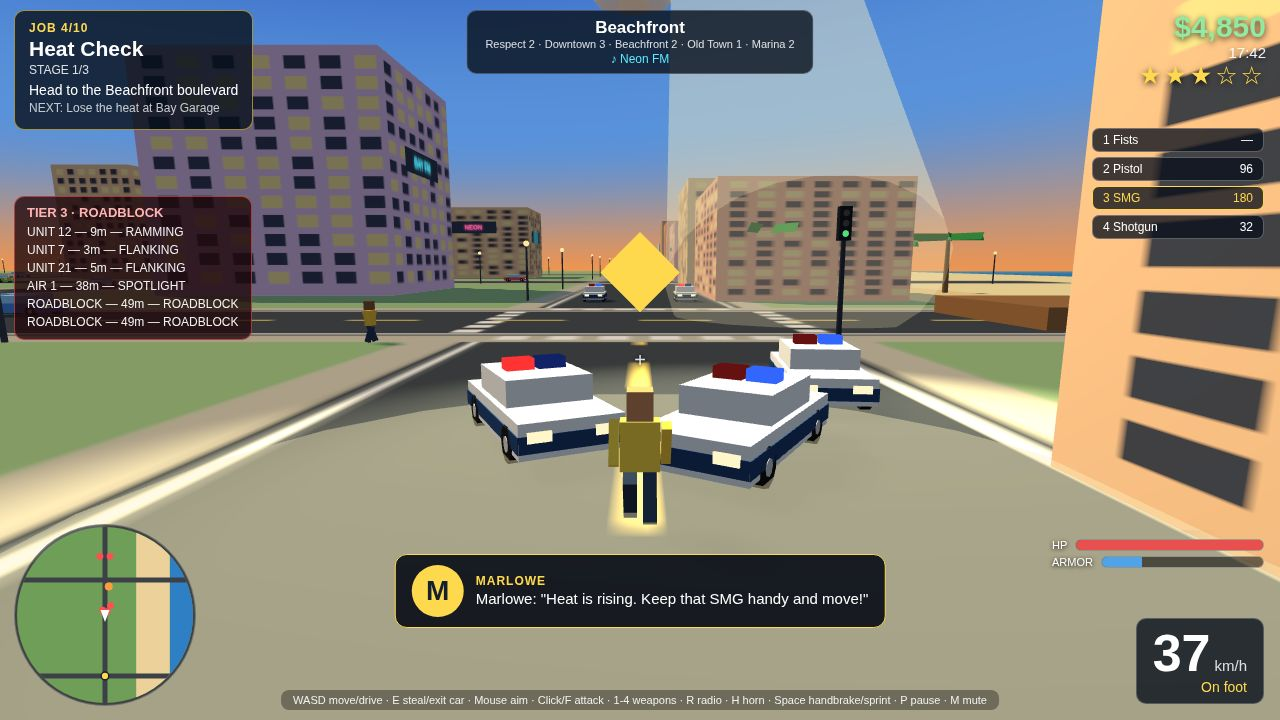
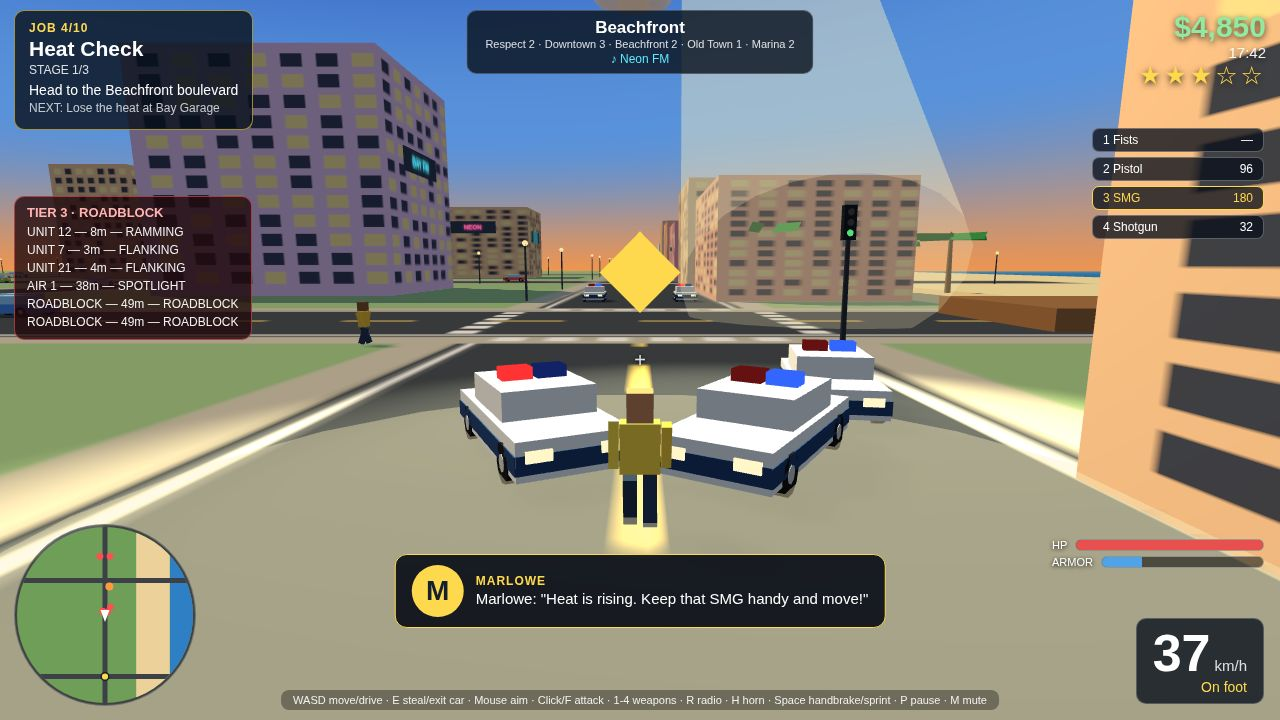
Neon Bay Nights polish re-do: re-authored staging + README, re-took screenshots under fresh recording

diff --git a/game/src/main.js b/game/src/main.js
@@ -410,62 +410,63 @@ function frame() {
 frame();
 
 // ---- screenshot staging (?shot=1..4) ------------------------------------
-// Units are staged AHEAD of the player (f = metres forward, s = metres
-// to the side). Anything behind the player sits between the chase camera
-// and the car and gets cropped at the bottom of the frame, so no staged
-// unit ever goes behind. The pursuit AI then keeps the units closing and
-// flanking for the ~6 s until the capture.
-// The helicopter orbits 0.45 rad/s at 30 m up; at the default 62 deg FOV
-// its body sits above the top of the frame, so the cover shot widens the
-// camera to 100 deg. heliAhead is the orbit angle at staging time, picked
-// so the helicopter is straight ahead of the chase at capture time.
-function arrangeForShot(offsets, heliAhead) {
+// Police are placed AHEAD of the player (f = metres forward along the
+// heading, s = metres to the side). Anything staged behind the player
+// ends up between the chase camera and the car and gets cropped out of
+// the bottom of the frame, so every unit starts in front. The pursuit
+// AI then keeps them closing and flanking for the seconds until capture.
+// The helicopter circles at 0.45 rad/s, 30 m up; at the normal 62 deg
+// FOV its body sits above the top edge of the frame, so the cover shot
+// opens the camera up to 100 deg. heliAhead is the orbit angle at
+// staging time, chosen so the helicopter has drifted to straight ahead
+// by capture time.
+function placeUnits(offsets, heliAhead) {
   setTimeout(() => {
     const p = G.player;
     const heading = p.car ? p.car.heading : p.heading;
-    const fwdX = Math.sin(heading), fwdZ = Math.cos(heading);
-    const sideX = Math.cos(heading), sideZ = -Math.sin(heading);
+    const fx = Math.sin(heading), fz = Math.cos(heading);
+    const sx = Math.cos(heading), sz = -Math.sin(heading);
     G.police.units.forEach((unit, i) => {
       const o = offsets[i % offsets.length];
       unit.pos.set(
-        p.pos.x + fwdX * o.f + sideX * o.s, 0,
-        p.pos.z + fwdZ * o.f + sideZ * o.s,
+        p.pos.x + fx * o.f + sx * o.s, 0,
+        p.pos.z + fz * o.f + sz * o.s,
       );
       unit.heading = heading;
       unit.speed = p.car ? Math.abs(p.car.speed) : 0;
       syncCarMesh(unit);
     });
     if (G.police.heli) G.police.heli.angle = heliAhead;
-    // The tier banner shows for 3.2 s, but the capture happens at
-    // G.time ~= 1.2 s — hide it here so the frame is banner-free.
+    // The tier banner shows for 3.2 s, but capture happens at
+    // G.time ~= 1.2 s — hide it here so the frame stays banner-free.
     // (updateHud never re-shows it; it only hides it at tierUntil.)
     G.hud.tierBanner.style.display = 'none';
     snapCamera(G);
   }, 500);
 }
 
-// Capture happens at G.time ~= 1.6 s for driving shots (1.2 s on foot) —
-// early, while the staged units are still ahead of the player. Given
-// ~2 s the pursuit AI converges and every unit ends up trailing ~8 m
-// behind the player, between the chase camera and the car, occluding it.
-// Units staged at f 18-22 meet the player before capture and stop it;
-// staged at f 22-38 they are still 12-25 m ahead, closing, at capture.
-// The helicopter drifts 0.45 * (capture - 0.5) rad from its staged
-// angle by then (0.5 driving, 0.32 on foot). Straight ahead is PI/2
-// (forward is +z at heading 0); on foot the player faces -z, so
-// straight ahead is -PI/2.
-const HELI_AHEAD_DRIVE = Math.PI / 2 - 0.5;
-const HELI_AHEAD_FOOT = -Math.PI / 2 - 0.32;
+// Capture lands at G.time ~= 1.6 s while driving (1.2 s on foot) —
+// early, while the staged units are still in front of the player.
+// Given ~2 s the pursuit AI converges and every unit ends up trailing
+// ~8 m behind the player, between the chase camera and the car,
+// hiding it. Units staged at f 18-22 reach the player before capture
+// and stop it; staged at f 22-38 they are still 12-25 m ahead,
+// closing, at capture time. The helicopter drifts 0.45 * (capture -
+// 0.5) rad from its staged angle by then (0.5 driving, 0.32 on foot).
+// Straight ahead is PI/2 (forward is +z at heading 0); on foot the
+// player faces -z, so straight ahead is -PI/2.
+const HELI_FRONT_DRIVE = Math.PI / 2 - 0.5;
+const HELI_FRONT_FOOT = -Math.PI / 2 - 0.32;
 
 function stageShot(n) {
   startGame();
   const p = G.player;
   G.hud.dialogue.style.display = 'none';
   if (n === 1) {
-    // Cover: high-speed chase on the Beachfront boulevard, 4 stars.
+    // Cover: high-speed chase down the Beachfront boulevard, 4 stars.
     // Wide FOV so the helicopter body is in frame above its spotlight.
-    // Bay Cruiser tops out at 137 km/h — fast, but slow enough that the
-    // player is still short of the north wall at capture time.
+    // The Bay Cruiser tops out at 137 km/h — fast, but slow enough
+    // that the player is still short of the north wall at capture.
     G.camera.fov = 100;
     G.camera.updateProjectionMatrix();
     G.mission.jobIndex = 5; G.mission.stage = 1; G.mission.timerLeft = 80;
@@ -477,9 +478,9 @@ function stageShot(n) {
     // Roadblock early, so it is placed while the player is still far
     // from it and reads as a distant blockade up the road at capture.
     G.police.roadblockTimer = 0.6;
-    arrangeForShot([
+    placeUnits([
       { f: 35, s: -5 }, { f: 22, s: 7 }, { f: 25, s: -7 }, { f: 38, s: 4 },
-    ], HELI_AHEAD_DRIVE);
+    ], HELI_FRONT_DRIVE);
     G.hud.showDialogue('MARLOWE', 'Marlowe: "Bay PD is on you — lose them and bring that Bay Cruiser home!"', 30);
   } else if (n === 2) {
     // On foot, SMG drawn, sprinting down the boulevard with police closing.
@@ -491,9 +492,9 @@ function stageShot(n) {
     p.weapon = 'smg';
     addHeat(G, 3.2);
     G.police.roadblockTimer = 0.6;
-    arrangeForShot([
+    placeUnits([
       { f: 25, s: 0 }, { f: 18, s: -8 }, { f: 20, s: 8 },
-    ], HELI_AHEAD_FOOT);
+    ], HELI_FRONT_FOOT);
     G.hud.showDialogue('MARLOWE', 'Marlowe: "Heat is rising. Keep that SMG handy and move!"', 30);
     snapCamera(G);
   } else if (n === 3) {
@@ -507,9 +508,9 @@ function stageShot(n) {
     G.autopilot = { forward: true };
     addHeat(G, 3.2);
     G.police.roadblockTimer = 0.6;
-    arrangeForShot([
+    placeUnits([
       { f: 35, s: -5 }, { f: 22, s: 7 }, { f: 25, s: -7 },
-    ], HELI_AHEAD_DRIVE);
+    ], HELI_FRONT_DRIVE);
     G.hud.showDialogue('MARLOWE', 'Marlowe: "Package is in. Downtown drop, do not be late."', 30);
   } else if (n === 4) {
     // 5 stars, Tier 5: six units flanking ahead, roadblock ahead with the
@@ -521,13 +522,13 @@ function stageShot(n) {
     G.autopilot = { forward: true };
     addHeat(G, 5.2);
     G.police.roadblockTimer = 0.6;
-    arrangeForShot([
+    placeUnits([
       { f: 35, s: -5 }, { f: 22, s: 7 }, { f: 25, s: -7 },
       { f: 38, s: 4 }, { f: 28, s: 8 }, { f: 32, s: -8 },
-    ], HELI_AHEAD_DRIVE);
+    ], HELI_FRONT_DRIVE);
     G.hud.showDialogue('MARLOWE', 'Marlowe: "Maximum response! Get to Bay Garage, NOW!"', 30);
   }
-  // Refresh mission marker/HUD for the staged state.
+  // Refresh the mission marker and HUD for the staged state.
   const stage = currentStage(G);
   if (stage) G.mission.marker.position.set(stage.x, 0, stage.z);
   snapCamera(G);
@@ -537,7 +538,6 @@ if (shotMode) {
   if (n >= 1 && n <= 4) stageShot(n);
   else startGame();
 }
-
 // ---- debug / playtest hook ------------------------------------------------
 window.__NBN__ = {
   G,

diff --git a/README.md b/README.md
@@ -4,25 +4,25 @@
 
 # Neon Bay Nights
 
-A true-3D open-world crime game that runs entirely in the browser. You are a wheelman in Neon Bay, a sunlit coastal city at golden hour, doing jobs for a fixer called Marlowe while Bay PD tries to ruin your day. The whole city is real-time Three.js: low-poly towers, a palm-lined beachfront boulevard, the ocean and a pier to the east, traffic that keeps to its lanes, and pedestrians who scatter when shots ring out. There is no install and no account — open the page, press START, and the city is yours. Everything runs from plain static files, including the vendored Three.js build and the synthesized sound, so it works offline once loaded.
+Neon Bay Nights is a fully 3D open-world crime game that plays in the browser — no download, no account, no install. You play a getaway driver working for Marlowe, a fixer in Neon Bay, a golden-hour coastal city built in real-time Three.js: low-poly towers, a palm-lined beachfront boulevard, the ocean and a pier to the east, traffic that stays in its lanes, and pedestrians who run when gunfire starts. The game is plain static files — Three.js is vendored and all sound is synthesized in code — so once it has loaded it even works offline.
 
 ## Ten jobs for Marlowe
 
-Marlowe's storyline is ten jobs that unlock in order and pay more as they get harder: steal a convertible by the Marina, run a parcel across town against a countdown, collect debts at three stops, and finish with a three-stage finale worth $5,000. Jobs mix four stage types — steal a marked car, drive to a place, deliver a car, and escape to the garage — and some thefts summon heat the moment you touch the door handle. A floating arrow above your character and a pulsing beam in the world always mark the objective, and Marlowe talks you through it in the dialogue box. Clear all ten and the city opens up for free roaming.
+Marlowe's story is ten jobs that unlock one after another and pay better as they get harder. Early work is a stolen convertible by the Marina and a parcel run across town against the clock; later jobs send you collecting debts at three stops and end in a three-stage finale worth $5,000. Jobs mix four stage types — steal a marked car, drive to a place, deliver a car, escape to the garage — and some thefts call down heat the second you touch the door handle. A floating arrow over your character and a pulsing beam in the world always point at the objective, and Marlowe talks you through it in the dialogue box. Finish all ten and the city is yours to roam freely.
 
 ## Bay PD: five dispatch tiers
 
-Heat is measured in five stars, and every star level fields a named dispatch tier: Patrol (1 unit), Interceptor (2), Roadblock (3), Air Support (4), and Maximum Response (6). Units drive with different habits — some ram you head-on, others swing wide to cut you off — and from two stars they shoot at close range. At three stars the response changes shape: roadblocks appear on the road ahead and a helicopter joins the chase, orbiting overhead with a spotlight that tracks your position. The pursuit is deliberately tuned so it can pressure you without ever trapping you — officers keep a standoff distance, ease off inside eight metres, and get pushed aside instead of pinning your car. Break contact and the heat drains away; reach the glowing ring at Bay Garage and it clears instantly for $50.
+Heat runs from one to five stars, and every level fields a named dispatch tier: Patrol (1 unit), Interceptor (2), Roadblock (3), Air Support (4), and Maximum Response (6). Units do not all drive the same way — some ram you head-on, others swing wide to cut you off — and from two stars they open fire at close range. From three stars the response changes shape: roadblocks appear on the road ahead and a helicopter joins the chase, circling overhead with a spotlight that tracks you. The pursuit is tuned to pressure you without ever trapping you: officers keep a standoff distance, ease off inside eight metres, and get shoved aside instead of pinning your car. Break contact and the heat drains away; reach the glowing ring at Bay Garage and it clears instantly for $50.
 
 ## Driving and fighting
 
-Eight civilian models share the roads, each with its own top speed and acceleration: Sunset Sedan, Bay Cruiser, Palm GT, Marina Hatch, Neon Coupe, Beach Buggy, Old Town Pickup, and Sol Convertible. Around two dozen are always driving the grid while more sit parked along the kerbs, waiting to be borrowed — press E next to one and it is yours, at the cost of a little heat. Driving is forgiving arcade: steering answers even at crawling pace, the handbrake tightens turns, and collisions dent bodywork (and eventually smoke) rather than ending the run.
+Eight civilian models share the roads, each with its own top speed and acceleration: Sunset Sedan, Bay Cruiser, Palm GT, Marina Hatch, Neon Coupe, Beach Buggy, Old Town Pickup, and Sol Convertible. Around two dozen are always driving the grid, and more sit parked along the kerbs waiting to be borrowed — press E next to one and it is yours, at the cost of a little heat. Driving is forgiving arcade: steering answers even at crawling pace, the handbrake tightens turns, and collisions dent bodywork (and eventually smoke) rather than ending the run.
 
 On foot you walk, sprint, and fight with a four-slot weapon wheel on keys 1–4: fists and a pistol from the start, with an SMG and a shotgun earned through the story or found as glowing pickups around the city, next to health and armour pickups. The mouse aims with pointer lock; bystanders flee when shots ring out. Lose all your health and the wasted screen wakes you up outside the hospital with your wanted level cleared.
 
 ## Four districts, respect, radio, saves
 
-The map splits into Downtown, Beachfront, Old Town, and Marina, and finishing a job raises your respect in the district where it began — the HUD keeps a running tally for all four. Two radio stations (a synth loop and a talk station, plus off) play from a synthesized engine hum, sirens, gunshots, crashes, horns, and cash chimes. Progress persists in browser storage between visits: money, story position, district respect, owned weapons and ammunition, and your radio and mute choices.
+The map splits into Downtown, Beachfront, Old Town, and Marina, and finishing a job raises your respect in the district where it began — the HUD keeps a running tally for all four. Two radio stations (a synth loop and a talk station, plus off) play over a synthesized engine hum, sirens, gunshots, crashes, horns, and cash chimes. Progress persists in browser storage between visits: money, story position, district respect, owned weapons and ammunition, and your radio and mute choices.
 
 ## The HUD
 
